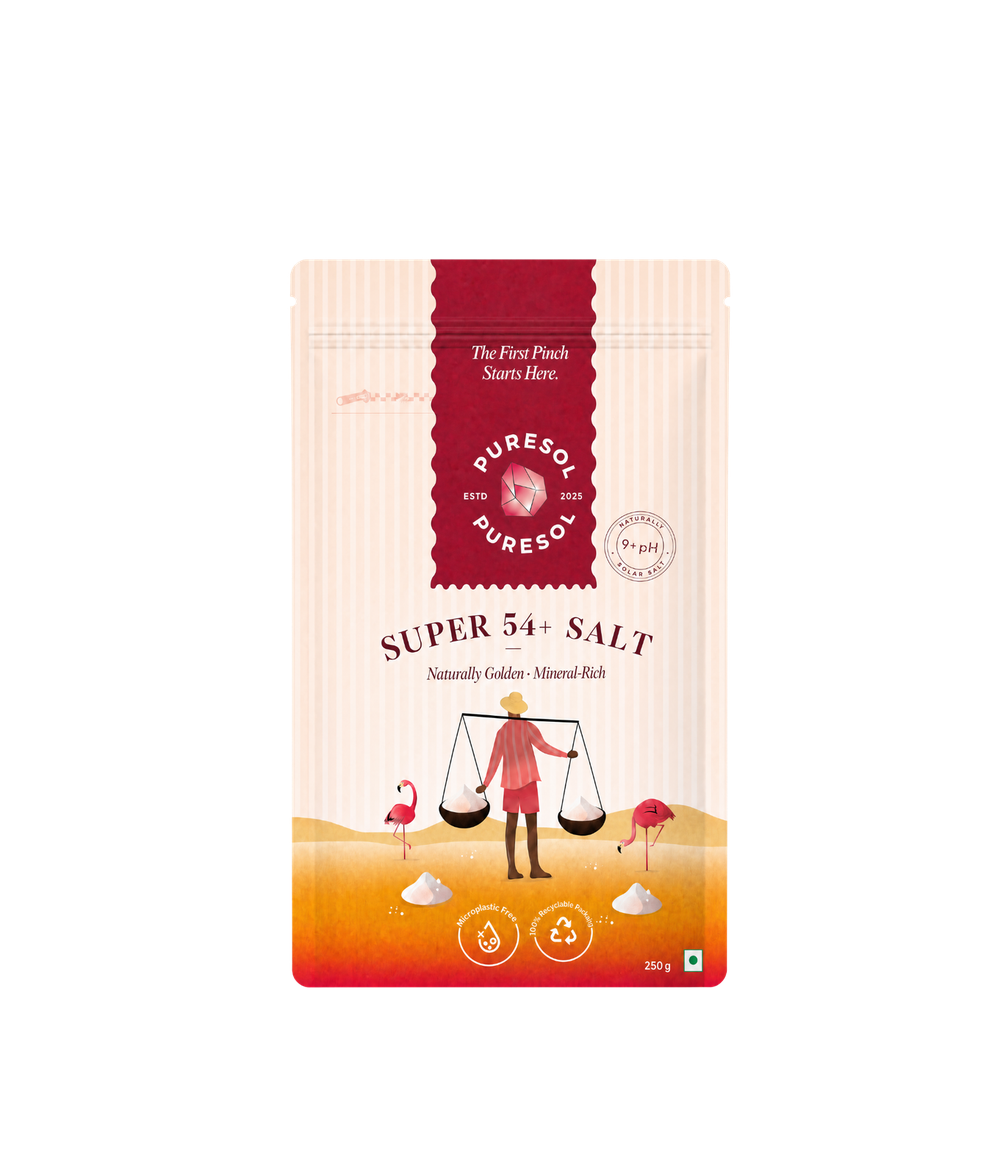
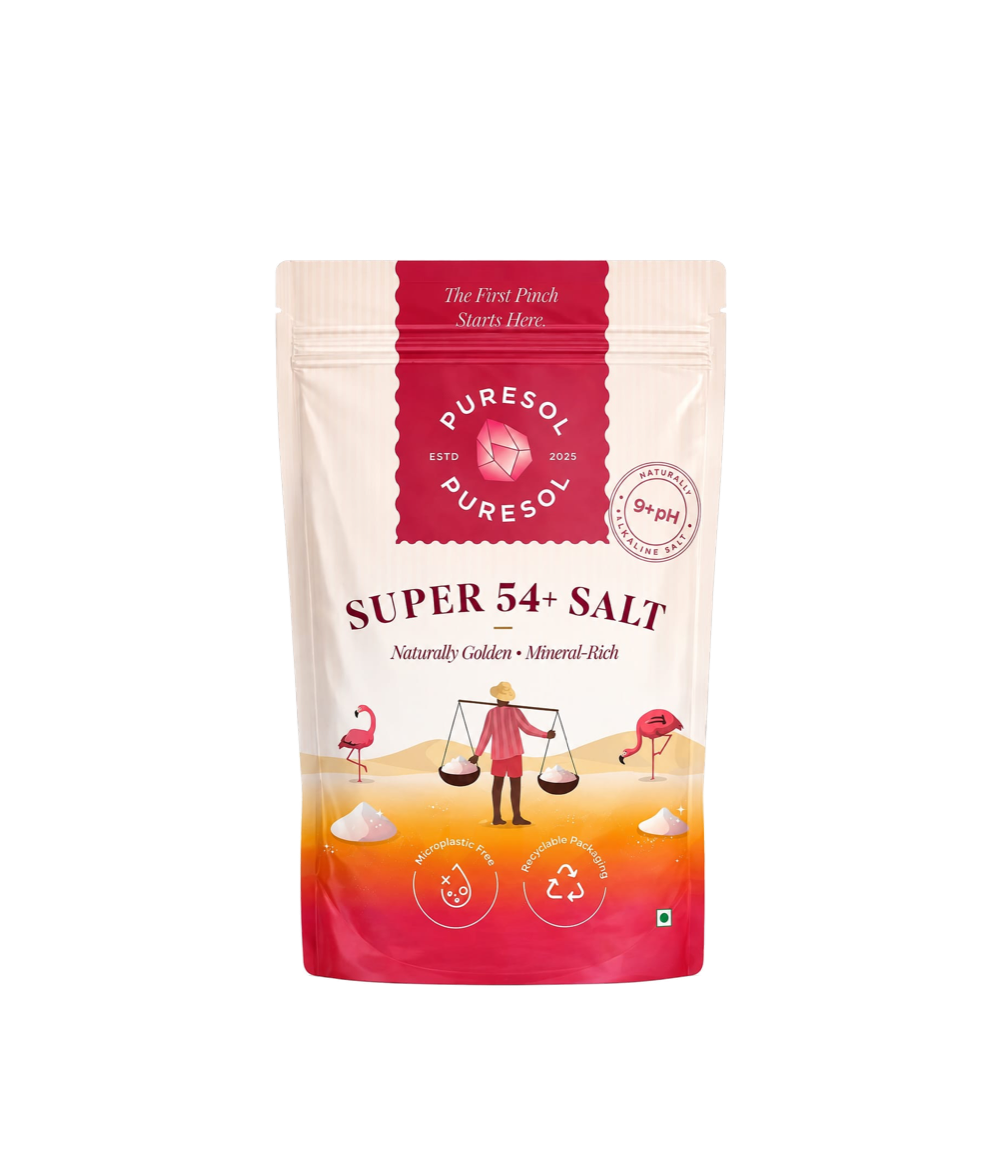
Replace homepage Super 54+ packshot with new front-facing shot
New source arrived as a JPEG on white; the three homepage product cards
all use transparent PNGs (object-fit: contain + silhouette drop-shadow),
so the white background is keyed out to alpha.

Reframed onto the same 1000x1176 canvas as the previous packshot with the
pack at the same top/bottom (y 259-987, height 729px) so it renders at
the same size as the Natural Alkaline Salt and Textile Salt cards.

Cache-busted the src since the filename is unchanged.

Changed region(s): [[0.279, 0.2143, 0.744, 0.8571], [0.713, 0.2449, 0.744, 0.2755]]

diff --git a/index.html b/index.html
@@ -511,7 +511,7 @@
           <article class="product-card product-card--super7">
             <span class="product-card__badge" style="background:var(--gold-warm);">Pro-Vitamin A</span>
             <div class="product-card__image-wrap">
-              <img src="assets/super54.png"
+              <img src="assets/super54.png?v=20260826"
                    alt="Puresol Super 54+ Salt" width="340" height="453" loading="lazy">
             </div>
             <h3 class="product-card__name">Super 54+ Salt</h3>
